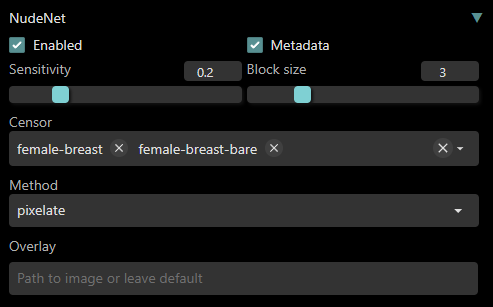
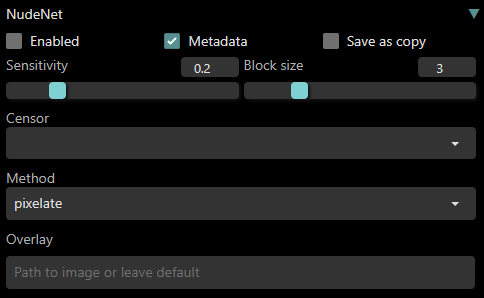
work as alwayon-script and postprocess-script

diff --git a/scripts/nudenet-ext.py b/scripts/nudenet-ext.py
@@ -1,7 +1,48 @@
 import gradio as gr
-from modules import scripts, processing # pylint: disable=import-error
+from modules import scripts, scripts_postprocessing, processing, images # pylint: disable=import-error
 import nudenet
 
+
+def create_ui(accordion=True):
+    with gr.Accordion('NudeNet', open = False, elem_id='nudenet') if accordion else gr.Group():
+        with gr.Row():
+            enabled = gr.Checkbox(label = 'Enabled', value = False)
+            metadata = gr.Checkbox(label = 'Metadata', value = True)
+            copy = gr.Checkbox(label = 'Save as copy', value = False)
+        with gr.Row():
+            score = gr.Slider(label = 'Sensitivity', value = 0.2, mininimum = 0, maximum = 1, step = 0.01, interactive=True)
+            blocks = gr.Slider(label = 'Block size', value = 3, minimum = 1, maximum = 10, step = 1, interactive=True)
+        with gr.Row():
+            censor = gr.Dropdown(label = 'Censor', value = [], choices = sorted(nudenet.labels), multiselect=True, interactive=True)
+        with gr.Row():
+            method = gr.Dropdown(label = 'Method', value = 'pixelate', choices = ['none', 'pixelate', 'blur', 'image', 'block'], interactive=True)
+        with gr.Row():
+            overlay = gr.Textbox(label = 'Overlay', value = '', placeholder = 'Path to image or leave default', interactive=True)
+    return [enabled, metadata, copy, score, blocks, censor, method, overlay]
+
+def process(p: processing.StableDiffusionProcessing=None, pp: scripts.PostprocessImageArgs=None, enabled=True, metadata=True, copy=False, score=0.2, blocks=3, censor=[], method='pixelate', overlay=''):
+    if not enabled:
+        return
+    if nudenet.detector is None:
+        nudenet.detector = nudenet.NudeDetector() # loads and initializes model once
+    nudes = nudenet.detector.censor(image=pp.image, method=method, min_score=score, censor=censor, blocks=blocks, overlay=overlay)
+    if pp is None:
+        nudenet.log.error('NudeNet: no image received')
+    if len(censor) > 0: # replace image if anything is censored
+        if not copy:
+            pp.image = nudes.output
+        else:
+            info = processing.create_infotext(p)
+            images.save_image(nudes.output, path=p.outpath_samples, seed=p.seed, prompt=p.prompt, info=info, p=p, suffix="-censored")
+    if metadata:
+        meta = '; '.join([f'{d["label"]}:{d["score"]}' for d in nudes.detections]) # add all metadata
+        nsfw = any([d["label"] in nudenet.nsfw for d in nudes.detections])
+        if p is not None:
+            p.extra_generation_params["NudeNet"] = meta
+            p.extra_generation_params["NSFW"] = nsfw
+        if hasattr(pp, 'info'):
+            pp.info['NudeNet'] = meta
+            pp.info['NSFW'] = nsfw
 
 class Script(scripts.Script):
     def title(self):
@@ -11,28 +52,18 @@ class Script(scripts.Script):
         return scripts.AlwaysVisible
 
     def ui(self, _is_img2img):
-        with gr.Accordion('NudeNet', open = False, elem_id='nudenet'):
-            with gr.Row():
-                enabled = gr.Checkbox(label = 'Enabled', value = False)
-                metadata = gr.Checkbox(label = 'Metadata', value = True)
-            with gr.Row():
-                score = gr.Slider(label = 'Sensitivity', value = 0.2, mininimum = 0, maximum = 1, step = 0.01, interactive=True)
-                blocks = gr.Slider(label = 'Block size', value = 3, minimum = 1, maximum = 10, step = 1, interactive=True)
-            with gr.Row():
-                censor = gr.Dropdown(label = 'Censor', value = [], choices = sorted(nudenet.labels), multiselect=True, interactive=True)
-            with gr.Row():
-                method = gr.Dropdown(label = 'Method', value = 'pixelate', choices = ['none', 'pixelate', 'blur', 'image', 'block'], interactive=True)
-            with gr.Row():
-                overlay = gr.Textbox(label = 'Overlay', value = '', placeholder = 'Path to image or leave default', interactive=True)
-        return [enabled, metadata, score, blocks, censor, method, overlay]
+        return create_ui(accordion=True)
 
-    def postprocess_image(self, p: processing.StableDiffusionProcessing, pp: scripts.PostprocessImageArgs, enabled, metadata, score, blocks, censor, method, overlay): # pylint: disable=arguments-differ
-        if not enabled:
-            return
-        if nudenet.detector is None:
-            nudenet.detector = nudenet.NudeDetector() # loads and initializes model once
-        nudes = nudenet.detector.censor(image=pp.image, method=method, min_score=score, censor=censor, blocks=blocks, overlay=overlay)
-        if len(censor) > 0: # replace image if anything is censored
-            pp.image = nudes.output
-        if metadata:
-            p.extra_generation_params["NudeNet"] = '; '.join([f'{d["label"]}:{d["score"]}' for d in nudes.detections]) # add all metadata
+    def postprocess_image(self, p: processing.StableDiffusionProcessing, pp: scripts.PostprocessImageArgs, enabled, metadata, copy, score, blocks, censor, method, overlay): # pylint: disable=arguments-differ
+        process(p, pp, enabled, metadata, copy, score, blocks, censor, method, overlay)
+
+class ScriptPostprocessing(scripts_postprocessing.ScriptPostprocessing):
+    name = 'NudeNet'
+    order = 10000
+
+    def ui(self):
+        enabled, metadata, copy, score, blocks, censor, method, overlay = create_ui(accordion=False)
+        return { 'enabled': enabled, 'metadata': metadata, 'copy': copy, 'score': score, 'blocks': blocks, 'censor': censor, 'method': method, 'overlay': overlay }
+
+    def process(self, pp: scripts_postprocessing.PostprocessedImage, enabled, metadata, copy, score, blocks, censor, method, overlay):
+        process(None, pp, enabled, metadata, copy, score, blocks, censor, method, overlay)

diff --git a/nudenet.py b/nudenet.py
@@ -36,6 +36,13 @@ labels = [
     "female-breast",
     "buttocks",
 ]
+nsfw = [
+    "buttocks-bare",
+    "female-breast-bare",
+    "anus-bare",
+    "female-vagina",
+    "male-penis",
+]
 
 
 class NudeResult:

diff --git a/README.md b/README.md
@@ -9,15 +9,16 @@
 - Exposed or unexposed:  
   e.g. *breast or breast-bare*
 - Add information to image metadata
-  e.g. *"NudeNet: female-face:0.86; belly:0.54"*
+  e.g. *"NudeNet: female-face:0.86; belly:0.54"*, *NSFW: True*  
 - Censor as desired (or not):
   - blur *(adjust block size for effect)*
   - pixelate *(adjust block size for effect)*
-  - cover with pasty :)  
+  - cover with pasty (overlay image) :)  
     *note: RGBA image is recommended for overlays*  
 - Use as extension from UI or via CLI  
   `python nudenet.py --help`  
 - Adjustable sensitivity
+- Can be used for **txt2img**, **img2img** or **process**  
 - FAST!  
   Uses `CV2` and `ONNX` backend and typically executes in <0.1sec  
 
